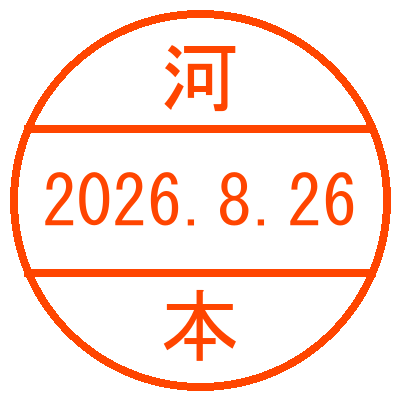
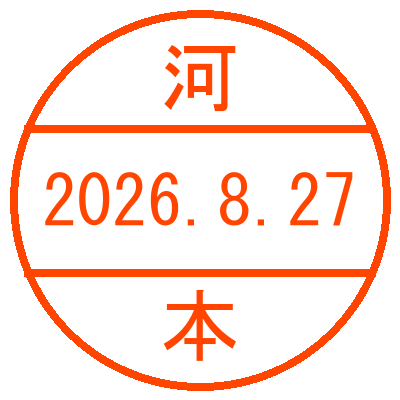
fix: 正規表現のグループ参照エラー(\g<1>0\g<2>)を修正しOCR補正を安定化

Changed region(s): [[0.81, 0.42, 0.9, 0.57]]

diff --git a/modules/pdf_extractor.py b/modules/pdf_extractor.py
@@ -86,7 +86,7 @@ def extract_left_column_text(pdf_path: Path, ratio: float = 0.18) -> str:
 
 
 def perform_ocr_rescue(pdf_path: Path, target_item_clean: str) -> tuple[bool, str]:
-    """最終手段: 1ページ目を軽量化画像(scale=1.5)で高速OCR解析する"""
+    """最終手段: 注文書ページを画像化(scale=3.0)して高精度OCR解析する"""
     if not EASYOCR_AVAILABLE:
         print("      └ ⚠ easyocr / pypdfium2 パッケージが未インストールのためOCRをスキップします。")
         return False, ""
@@ -104,6 +104,8 @@ def perform_ocr_rescue(pdf_path: Path, target_item_clean: str) -> tuple[bool, st
             return False, ""
 
         pdf = pdfium.PdfDocument(pdf_path)
+        
+        # 英数字のみに削ったターゲット型式
         target_norm = re.sub(r'[^A-Za-z0-9]', '', target_item_clean).upper()
 
         # --------------------------------------------------
@@ -128,7 +130,7 @@ def perform_ocr_rescue(pdf_path: Path, target_item_clean: str) -> tuple[bool, st
         for idx in target_indices:
             page = pdf[idx]
             
-            # ★ scale=3.0 ＋ グレースケールで微小な文字（4とAなど）の潰れを完全防止
+            # ★ scale=3.0 ＋ グレースケールで文字の潰れを防止
             pil_image = page.render(scale=3.0).to_pil().convert('L')
             img_np = np.array(pil_image)
             
@@ -136,25 +138,41 @@ def perform_ocr_rescue(pdf_path: Path, target_item_clean: str) -> tuple[bool, st
             page_ocr_text = " ".join(results)
             all_ocr_text += page_ocr_text + " "
 
-            # 基本的な英数字正規化
-            # perform_ocr_rescue 内の文字正規化と照合部分
-
+            # OCRテキストの英数字正規化
             ocr_norm = re.sub(r'[^A-Za-z0-9]', '', page_ocr_text).upper()
 
-            # 表記揺れ（1/I/O/0、記号潰れ '?'）を完全に統一
+            # 💡 [MCL案件等の対策] OCRテキストが「K-型式」や「K型式」になっている場合に「K」を削ったバリエーションを作成
+            ocr_norm_no_k = ocr_norm
+            if ocr_norm.startswith("K") and not ocr_norm.startswith("K3"):
+                ocr_norm_no_k = ocr_norm[1:]
+
+            # 表記揺れ（1/I/O/0、記号潰れ）を補正
             ocr_norm_replaced = (
-                ocr_norm.replace("OX", "10X")      # 'OX' ➔ '10X'
-                        .replace("1OX", "10X")     # '1OX' ➔ '10X'
-                        .replace("IOX", "10X")     # 'IOX' ➔ '10X'
-                        .replace("OX2", "10X2")    # 'OX2' ➔ '10X2'
+                ocr_norm.replace("OX", "10X")
+                        .replace("1OX", "10X")
+                        .replace("IOX", "10X")
+                        .replace("OX2", "10X2")
+            )
+
+            ocr_norm_no_k_replaced = (
+                ocr_norm_no_k.replace("OX", "10X")
+                             .replace("1OX", "10X")
+                             .replace("IOX", "10X")
+                             .replace("OX2", "10X2")
             )
 
             target_norm_replaced = (
                 target_norm.replace("IOX", "10X")
-                        .replace("1OX", "10X")
+                           .replace("1OX", "10X")
             )
 
-            if (target_norm in ocr_norm) or (target_norm_replaced in ocr_norm_replaced):
+            # 🌸 ターゲット型式が含まれるかチェック（K除去パターン含む）
+            if (
+                (target_norm in ocr_norm) or 
+                (target_norm in ocr_norm_no_k) or 
+                (target_norm_replaced in ocr_norm_replaced) or 
+                (target_norm_replaced in ocr_norm_no_k_replaced)
+            ):
                 is_item_found = True
                 break
 

diff --git a/modules/match_engine.py b/modules/match_engine.py
@@ -4,17 +4,30 @@ from modules.pdf_extractor import extract_left_column_text, perform_ocr_rescue
 
 def normalize_model_text(text: str) -> str:
     """
-    型式文字列の表記揺れ（頭ゼロ、余計なスペース、ハイフン等）を補正する
+    型式文字列の表記揺れ（頭ゼロ、余計なスペース、先頭のK-、OCRによる0/O文字化け補正等）を補正する
     """
     if not text:
         return ""
     
     t = text.upper()
-    # 1. 「-08」を「-8」へ変換（例: "-08" -> "-8"）
-    t = re.sub(r'-0(\d)', r'-\1', t)
-    # 2. 数字と英字の間のスペースを削除（例: "8 ZSAY" -> "8ZSAY"）
-    t = re.sub(r'(\d)\s+([A-Z])', r'\1\2', t)
-    # 3. 改行やスペースを完全除去
+    
+    # 1. 先頭の「K-」や「K」を除去 (MCL案件用)
+    if t.startswith("K-"):
+        t = t[2:]
+    elif t.startswith("K") and len(t) > 1 and not t.startswith("K3"):
+        t = t[1:]
+
+    # 2. OCR文字化け補正（\g<1> と \g<2> でエラーを完全防止）
+    t = re.sub(r'(\d)O([A-Z0-9])', r'\g<1>0\g<2>', t)  # 例: "3OH" -> "30H"
+    t = re.sub(r'([A-Z0-9])O(\d)', r'\g<1>0\g<2>', t)  # 例: "HO3" -> "H03"
+
+    # 3. 「-08」を「-8」へ変換 (ダイフク用)
+    t = re.sub(r'-0(\d)', r'-\g<1>', t)
+    
+    # 4. 数字と英字の間のスペースを削除
+    t = re.sub(r'(\d)\s+([A-Z])', r'\g<1>\g<2>', t)
+    
+    # 5. 改行やスペースを完全除去
     t = re.sub(r'\s+', '', t)
     return t
 
@@ -90,7 +103,7 @@ def verify_po_items(ex_data: dict, matched_pdf: dict) -> dict:
                     .replace(" ", "")
     )
 
-    # 💡 [ダイフク案件対策] 表記揺れ補正用のテキストを作成
+    # 💡 表記揺れ補正用のテキストを作成
     ex_item_norm_custom = normalize_model_text(ex_item)
     pdf_text_norm_custom = normalize_model_text(pdf_text_raw)
 
@@ -113,7 +126,7 @@ def verify_po_items(ex_data: dict, matched_pdf: dict) -> dict:
             ex_item_norm in pdf_text_norm or
             ex_item_alphanumeric in pdf_text_alphanumeric or
             ex_item_zero_o in pdf_text_zero_o or
-            # 🌸 ダイフク等の表記揺れ補正一致
+            # 🌸 表記揺れ補正一致（ダイフク・MCL等の表記揺れを吸収）
             ex_item_norm_custom in pdf_text_norm_custom or
             ex_item_norm_custom.replace("-", "") in pdf_text_norm_custom.replace("-", "")
         )
@@ -198,7 +211,10 @@ def verify_po_items(ex_data: dict, matched_pdf: dict) -> dict:
         is_ocr_ok, ocr_text_res = perform_ocr_rescue(matched_pdf["path"], ex_item_clean)
         ocr_extracted_text = ocr_text_res
         
-        if is_ocr_ok:
+        # 🌸 💡 [MCL案件画像PDF対策] OCRで読み取ったテキストも正規化して判定を追加
+        ocr_norm_custom = normalize_model_text(ocr_extracted_text)
+        
+        if is_ocr_ok or (ex_item_norm_custom in ocr_norm_custom):
             check_item = True
             rescue_logs.append("      └ 🌸 OCRスキャン解析により図面内の文字情報を正常検出！")
 

diff --git a/modules/test.py b/modules/test.py
@@ -1,0 +1,34 @@
+from pathlib import Path
+import pypdfium2 as pdfium
+import easyocr
+import numpy as np
+
+# files フォルダ内の「0091794」を含むフォルダを自動検出
+files_dir = Path("files")
+target_dirs = [d for d in files_dir.glob("*0091794*") if d.is_dir()]
+
+if not target_dirs:
+    print("❌ 対象フォルダが見つかりませんでした。")
+else:
+    target_dir = target_dirs[0]
+    pdf_files = list(target_dir.glob("*.pdf"))
+
+    if not pdf_files:
+        print(f"❌ フォルダ（{target_dir.name}）内にPDFが見つかりませんでした。")
+    else:
+        pdf_path = pdf_files[0]
+        print(f"📂 検出フォルダ: {target_dir.name}")
+        print(f"📄 読み込みPDF: {pdf_path.name}")
+
+        pdf = pdfium.PdfDocument(pdf_path)
+        page = pdf[0]
+
+        # scale=3.0 でレンダリングしてOCR実行
+        pil_image = page.render(scale=3.0).to_pil().convert('L')
+        img_np = np.array(pil_image)
+
+        reader = easyocr.Reader(['en'], gpu=False)
+        results = reader.readtext(img_np, detail=0)
+
+        print("\n=== EasyOCRが認識した全テキスト ===")
+        print(" ".join(results))
